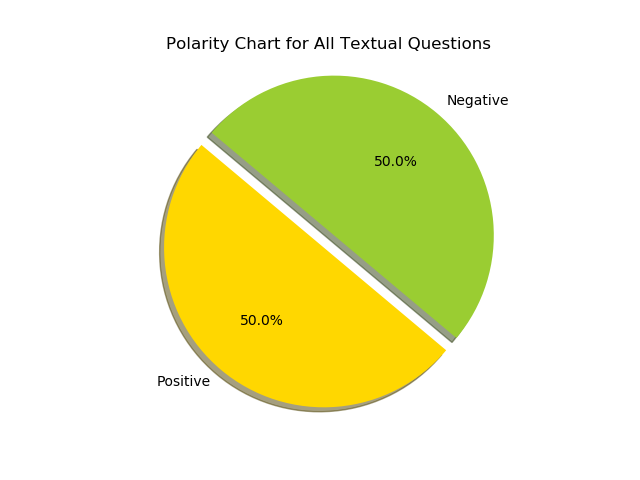
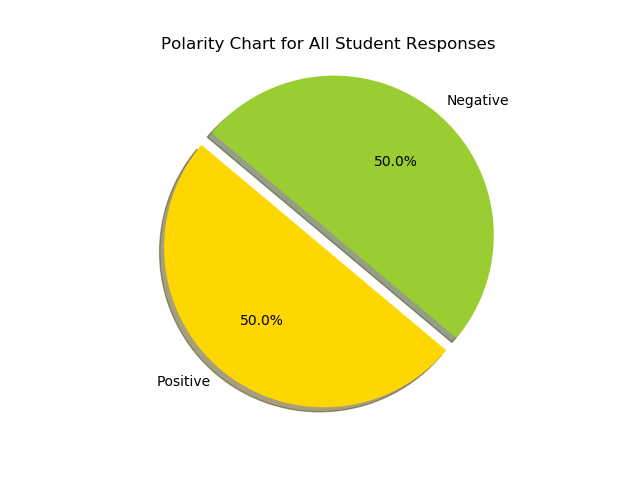
added output data analytics csv file for integration with Stark's module

Changed region(s): [[0.25, 0.0625, 0.7812, 0.125]]

diff --git a/data_analytics.py b/data_analytics.py
@@ -22,7 +22,7 @@ def create_histogram(question_num, distribution_list):
 
     y = np.asarray(answer_list)
     hist, bin_edges = np.histogram(y, num_bins, range=(lower_bound, upper_bound))
-    width = (bin_edges[1] - bin_edges[0])
+    width = bin_edges[1] - bin_edges[0]
     fig = plt.figure()
     plt.bar(bin_edges[:-1], hist, align='center', width=width*0.6, edgecolor='k', facecolor='blue', alpha=0.5)
     plt.xticks(range(num_bins+1))
@@ -67,20 +67,35 @@ def calc_mode(distribution_list):
     most = max(list(map(list_of_responses.count, list_of_responses)))
     return list(set(filter(lambda val: list_of_responses.count(val) == most, list_of_responses)))
 
+def write_csv():
+
+    with open("analytics.csv", mode = "w", newline = '') as out_file:
+        file_writer = csv.writer(out_file, delimiter = ",", quotechar = '"', quoting = csv.QUOTE_MINIMAL)
+        file_writer.writerow(["NUMERIC-TYPE QUESTION:"])
+        file_writer.writerow(["question_number","most_popular_choice","mean","mode","median","standard_deviation"])
+        file_writer.writerow(["TEXTUAL-TYPE QUESTION:"])
+        file_writer.writerow(["percentage_positive", "percentage_negative", "percentage_subjective", "percentage_objective"])
+        for row_number, row_content in analytics_dict.items():
+            file_writer.writerow(row_content)
+
 def numerical_metrics(): 
 
-    for key, distribution_list in question_dict.items():
+    for key, distribution_list in numeric_question_dict.items():
         num_students_most_popular_choice = max(distribution_list)
         most_popular_choice = distribution_list.index(num_students_most_popular_choice) + 1 # the first answer choice starts at 1
-        print("For question {}:".format(key))
-        print("- Number of students choosing each numeric choice: {}".format(distribution_list))
-        print("- Most chosen numeric choice is {}".format(most_popular_choice))
-        print("- Mean value of numeric response is {}".format(calc_mean(distribution_list)))
-        print("- Mode value(s) of numeric response is/are {}".format(calc_mode(distribution_list)))
-        print("- Median value of numeric response is {}".format(calc_median(distribution_list)))
-        print("- Standard deviation of numeric response is {}".format(calc_standard_deviation(distribution_list)))
+        print("For question {}:".format(key)) # included in csv file
+        print("- Number of students choosing each numeric choice: {}".format(distribution_list)) 
+        print("- Most chosen numeric choice is {}".format(most_popular_choice)) # included in csv file
+        print("- Mean value of numeric response is {}".format(calc_mean(distribution_list))) # included in csv file
+        print("- Mode value(s) of numeric response is/are {}".format(calc_mode(distribution_list))) # included in csv file
+        print("- Median value of numeric response is {}".format(calc_median(distribution_list))) # included in csv file
+        print("- Standard deviation of numeric response is {}".format(calc_standard_deviation(distribution_list))) # included in csv file
         print("------------------------------")
         create_histogram(key, distribution_list)
+
+        analytics_dict[key] = []
+        new_row = [key, most_popular_choice, calc_mean(distribution_list), calc_mode(distribution_list), calc_median(distribution_list), calc_standard_deviation(distribution_list)]
+        analytics_dict[key].extend(new_row)
 
 def sentiment_analysis():
 
@@ -88,63 +103,84 @@ def sentiment_analysis():
     num_negative = 0
     num_objective = 0
     num_subjective = 0
+    num_neutral = 0
 
-    num_textual_questions = 0
+    num_aggregate_responses = 0
 
     for key, response_list in student_dict.items():
         print("Performing sentiment analysis on textual responses from student {}".format(key))
         for index, response in enumerate(response_list):
             if not response.isnumeric(): # only perform sentiment analysis on non-numeric responses
+
+                analytics_dict[index+1] = []
                 obj = TextBlob(response)
-                polarity = obj.sentiment.polarity # a value within the range [-1.0,1.0]
-                subjectivity = obj.sentiment.subjectivity # a value between [0.0,1.0]
+                polarity = round(obj.sentiment.polarity,1) # a value within the range [-1.0,1.0]
+                subjectivity = round(obj.sentiment.subjectivity,1) # a value between [0.0,1.0]
                 status = []
-                num_textual_questions+=1
+                num_aggregate_responses+=1
 
-                if polarity == 0:
+                if polarity == 0 or subjectivity == 0.5:
                     status.append("Neutral")
-                elif polarity > 0:
-                    status.append('Positive')
-                    num_positive+=1
+                    overall_sentiment = "Neutral"
+                    num_neutral+=1
+                    print("Question {}: {} response".format(index+1, overall_sentiment))
+                    textual_question_dict[index+1].append([status[0]])     
                 else:
-                    status.append('Negative')
-                    num_negative+=1
 
-                if subjectivity < 0.5:
-                    status.append("objective")
-                    num_objective+=1
-                elif subjectivity > 0.5:
-                    status.append("Subjective")
-                    num_subjective+=1
+                    if polarity > 0:
+                        status.append('Positive')
+                        num_positive+=1
+                    elif polarity < 0:
+                        status.append('Negative')
+                        num_negative+=1
 
-                if len(status) == 0:
-                    print("Question {}: {} and {} response".format(index+1, status[0], status[1]))
-                else:
-                    print("Question {}: {} response".format(index+1, status[0]))                
+                    if subjectivity < 0.5:
+                        status.append("Objective")
+                        num_objective+=1
+                    elif subjectivity > 0.5:
+                        status.append("Subjective")
+                        num_subjective+=1
+
+                    overall_sentiment = "{} and {}".format(status[0], status[1])
+                    print("Question {}: {} response".format(index+1, overall_sentiment))   
+                    textual_question_dict[index+1].append([status[0],status[1]])      
 
         print("------------------------------")
-    print("Percentage of positive responses for all textual questions: {}%".format((num_positive/num_textual_questions)*100))
-    print("Percentage of negative responses for all textual questions: {}%".format((num_negative/num_textual_questions)*100))
-    print("Percentage of objective responses for all textual questions: {}%".format((num_objective/num_textual_questions)*100))
-    print("Percentage of subjective responses for all textual questions: {}%".format((num_subjective/num_textual_questions)*100))
+
+    for question_id, response_sentiment_list in textual_question_dict.items():
+        analytics_dict[question_id] = []
+        flattened_list = [item for sublist in response_sentiment_list for item in sublist]
+        percentage_positive = (flattened_list.count("Positive")/len(response_sentiment_list))*100
+        percentage_negative = (flattened_list.count("Negative")/len(response_sentiment_list))*100
+        percentage_objective = (flattened_list.count("Objective")/len(response_sentiment_list))*100
+        percentage_subjective = (flattened_list.count("Subjective")/len(response_sentiment_list))*100
+        percentage_neutral = (flattened_list.count("Neutral")/len(response_sentiment_list))*100
+        new_row = [question_id, percentage_positive, percentage_negative, percentage_subjective, percentage_objective, percentage_neutral]
+        analytics_dict[question_id].extend(new_row)
+
+    print("Percentage of positive responses out of responses among all students: {}%".format((num_positive/num_aggregate_responses)*100))
+    print("Percentage of negative responses out of responses among all students: {}%".format((num_negative/num_aggregate_responses)*100))
+    print("Percentage of objective responses out of responses among all students: {}%".format((num_objective/num_aggregate_responses)*100))
+    print("Percentage of subjective responses out of responses among all students: {}%".format((num_subjective/num_aggregate_responses)*100))
+    print("Percentage of neutral responses out of responses among all students: {}%".format((num_neutral/num_aggregate_responses)*100))
     # pie chart
     labels = 'Subjective', 'Objective'
-    sizes = [(num_subjective/num_textual_questions)*360, (num_objective/num_textual_questions)*360]
+    sizes = [(num_subjective/num_aggregate_responses)*360, (num_objective/num_aggregate_responses)*360]
     colors = ['gold', 'yellowgreen']
     explode = (0, 0.1)
     polarity_chart = plt.figure()
     plt.pie(sizes, explode=explode, labels=labels, colors=colors, autopct='%1.1f%%', shadow=True, startangle=140)
     plt.axis('equal')
-    plt.title("Subjectivity Chart for All Textual Questions")
+    plt.title("Subjectivity Chart for All Student Responses")
     plt.savefig("subjectivity_chart") # saves the figure as a file
 
     labels = 'Positive', 'Negative'
-    sizes = [(num_positive/num_textual_questions)*360, (num_negative/num_textual_questions)*360]
+    sizes = [(num_positive/num_aggregate_responses)*360, (num_negative/num_aggregate_responses)*360]
     colors = ['gold', 'yellowgreen']
     explode = (0, 0.1)
     polarity_chart = plt.figure()
     plt.pie(sizes, explode=explode, labels=labels, colors=colors, autopct='%1.1f%%', shadow=True, startangle=140)
-    plt.title('Polarity Chart for All Textual Questions')
+    plt.title('Polarity Chart for All Student Responses')
     plt.axis('equal')
     plt.savefig("polarity_chart") # saves the figure as a file
             
@@ -163,7 +199,7 @@ def parse():
                 student_dict[student_count] = [] # create an empty list to hold the student's responses
             if row[1] != '':
                 student_dict[student_count].append(row[1])
-                question_dict[int(row[0])] = [0]*num_choices
+                numeric_question_dict[int(row[0])] = [0]*num_choices
             else:
                 student_dict[student_count].append(row[2])
             line_count+=1
@@ -171,7 +207,10 @@ def parse():
         for key, response_list in student_dict.items(): # tally the responses for each numeric question
             for index, response in enumerate(response_list):
                 if response.isnumeric():
-                    question_dict[index+1][int(response)-1]+=1
+                    numeric_question_dict[index+1][int(response)-1]+=1
+                else:
+                    textual_question_dict[index+1] = []
+
 
 def main():
 
@@ -184,9 +223,13 @@ def main():
     print("------------------------------")
     numerical_metrics()
     sentiment_analysis()
+    write_csv()
 
-question_dict = {}
+analytics_dict = {} # processed results in the form of a dictionary for output to csv
+numeric_question_dict = {} # containing responses for each numeric question
+textual_question_dict = {} # containing question ID used as dummy holder for each textual question
 student_dict = {} # dictionary containing lists of student responses
+
 num_questions = 9
 num_choices = 5
 student_count = 0
